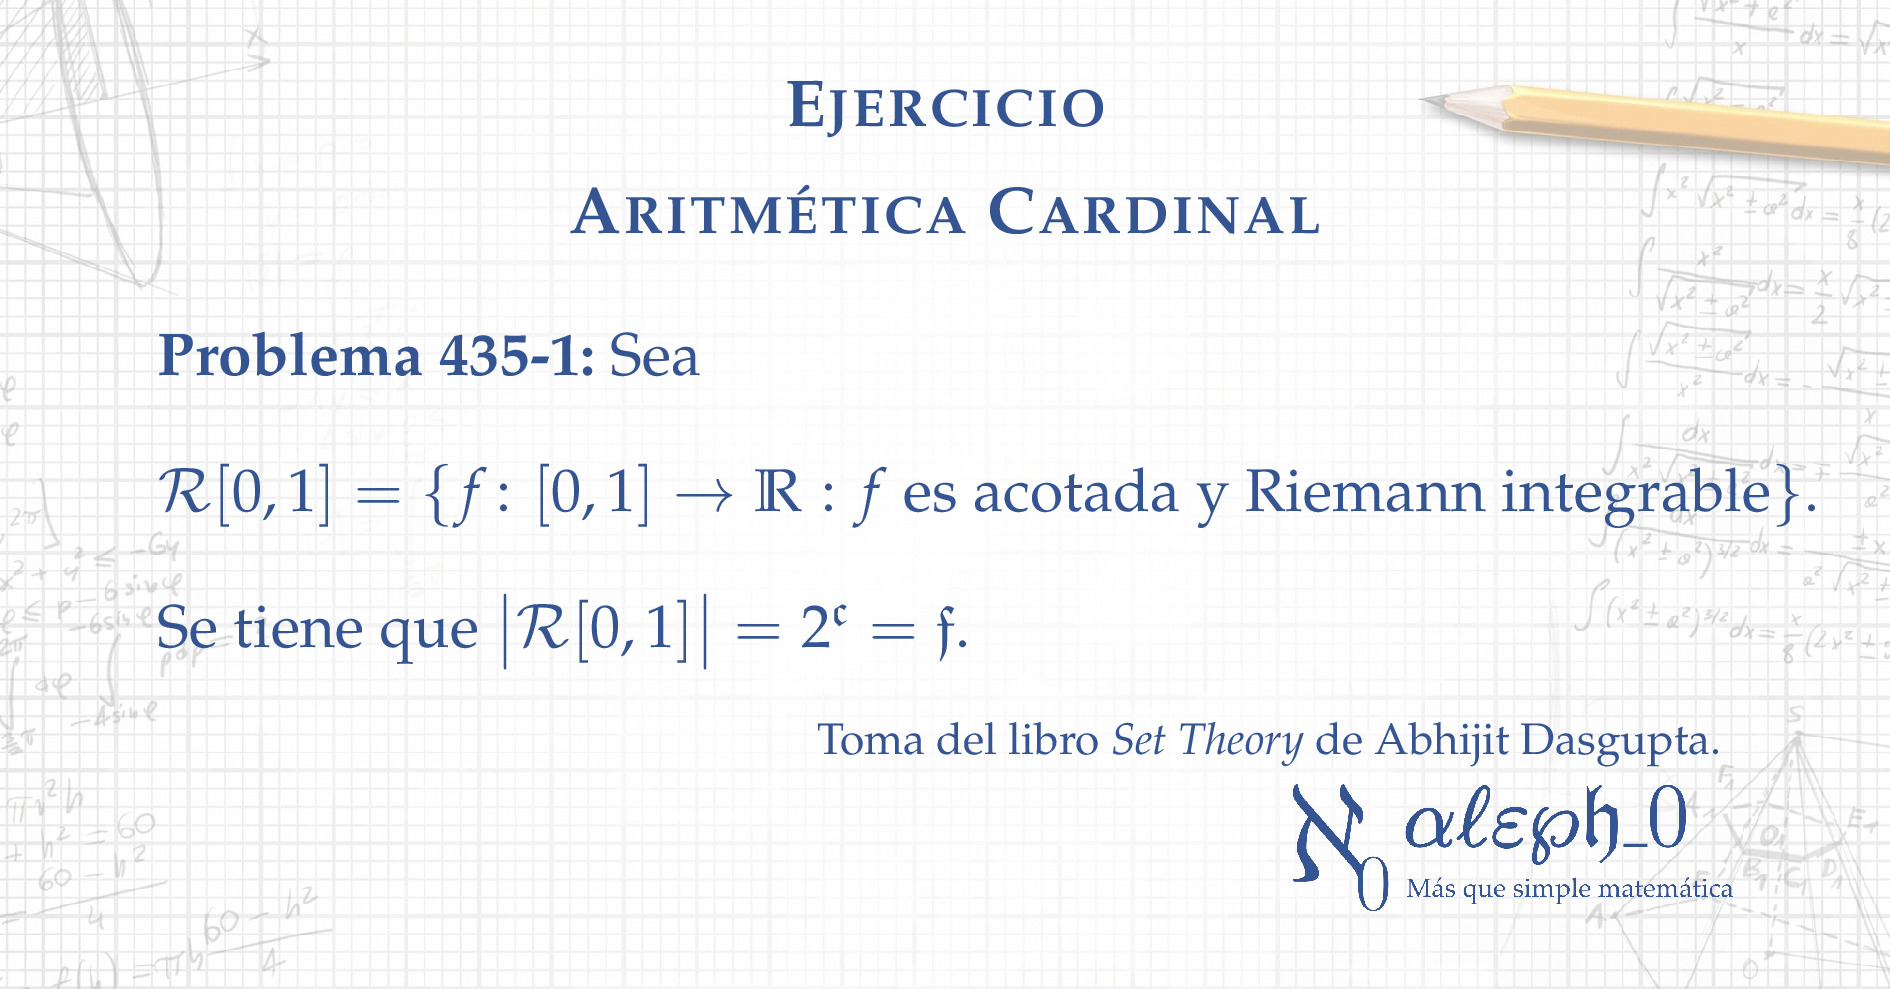
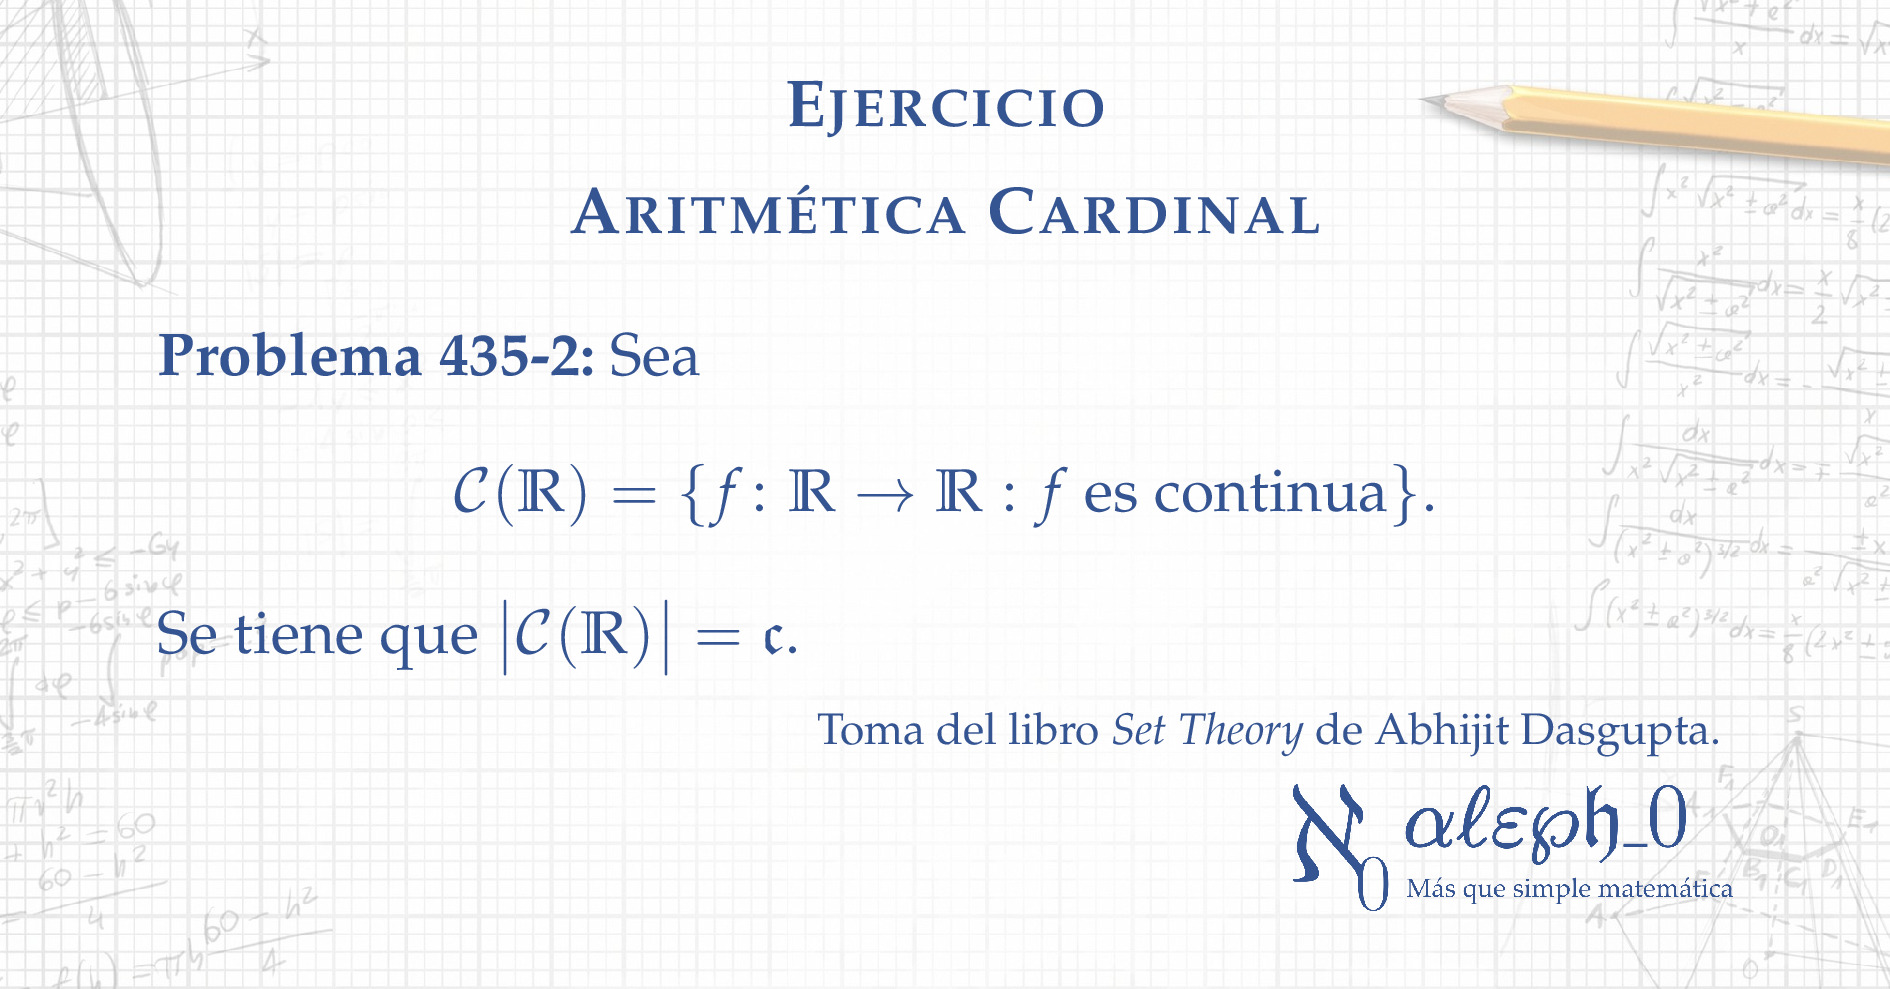
agrega ejercicio 435-2

diff --git a/Cap06/Problema0435-2.tex b/Cap06/Problema0435-2.tex
@@ -7,7 +7,7 @@
 % -- Datos
 \institucion{Proyecto Alephsub0}
 \asignatura{Teoría de conjuntos}
-\tema{Problema 435-1 del libro de Abhijit Dasgupta}
+\tema{Problema 435-2 del libro de Abhijit Dasgupta}
 \autor{Andrés Merino}
 \fecha{Diciembre 2024}
 
@@ -27,7 +27,7 @@
 \encabezado
 
 \noindent
-El siguiente problema corresponde al Problema 435-1 del libro Set theory de Abhijit Dasgupta. Primero, presentemos algunas definiciones:
+El siguiente problema corresponde al Problema 435-2 del libro Set theory de Abhijit Dasgupta. Primero, presentemos algunas definiciones:
 
 % \begin{defi}[Potencia de Conjuntos]
 %     Sea \(A, B\) conjuntos. La potencia \(A^B\) se define como el conjunto de todas las funciones de \(B\) en \(A\), es decir, 
@@ -45,9 +45,9 @@ El siguiente problema corresponde al Problema 435-1 del libro Set theory de Abhi
 
 \begin{proof}
     Para cada $x_0 \in \mathbb{R}$, consideremos la función constante $\func{f_{x_0}}{\mathbb{R}}{\mathbb{R}}$ dada por
-    \[
+    $
         f_{x_0}(x) = x_0.
-    \]
+    $
     Definimos la aplicación
     \[
         \funcion{\Phi}{\mathbb{R}}{\mathcal{C}(\mathbb{R})}{x_0}{\Phi(x_0) = f_{x_0}.}
@@ -63,22 +63,24 @@ El siguiente problema corresponde al Problema 435-1 del libro Set theory de Abhi
     \]
     donde $\Psi(f)$ es la restricción de $f$ a $\mathbb{Q}$. 
 
-    La función $\Psi$ es inyectiva, ya que si $\Psi(f) = \Psi(g)$, entonces $f$ y $g$ coinciden en todos los puntos racionales. Como los racionales son densos en $\mathbb{R}$ y $f, g$ son continuas en $\mathbb{R}$, se sigue que $f = g$ en todo $\mathbb{R}$. 
+    La función $\Psi$ es inyectiva, ya que si $\Psi(f) = \Psi(g)$, entonces $f|_{\mathbb{Q}} = g|_{\mathbb{Q}}$, es decir, $f$ y $g$ coinciden en todos los puntos racionales. Como los racionales son densos en $\mathbb{R}$ y $f, g$ son continuas en $\mathbb{R}$, se sigue que $f = g$ en todo $\mathbb{R}$. 
 
-    Para ver que $\Psi$ es sobreyectiva, tomemos cualquier función $h \in \mathcal{C}(\mathbb{Q})$. Dado que $h$ es continua en $\mathbb{Q}$, se puede extender a una función continua en $\mathbb{R}$ (por el teorema de extensión de continuidades en espacios métricos). Así, existe una función $F \in \mathcal{C}(\mathbb{R})$ tal que $F|_{\mathbb{Q}} = h$, lo que prueba que $\Psi$ es sobreyectiva.
-
-    Como
+    Para ver que $\Psi$ es sobreyectiva, tomemos cualquier función $h \in \mathcal{C}(\mathbb{Q})$. Dado que $h$ es continua en $\mathbb{Q}$, se puede extender a una función continua en $\mathbb{R}$ (por el teorema de extensión de continuidades en espacios métricos). Así, existe una función $F \in \mathcal{C}(\mathbb{R})$ tal que $F|_{\mathbb{Q}} = h$, lo que prueba que $\Psi$ es sobreyectiva. Con esto:
     \[
-        \big|\mathcal{C}(\mathbb{Q})\big| = \big|\mathbb{R}^{\mathbb{Q}}\big| = \big|\mathbb{R}^{\mathbb{N}}\big| = \mathfrak{c}^{\aleph_0} = \mathfrak{c},
-    \]
-    se sigue que
-    \[
-        \big|\mathcal{C}(\mathbb{R})\big| \leq \mathfrak{c}.
+        \big|\mathcal{C}(\mathbb{Q})\big| = \big|\mathcal{C}(\mathbb{R})\big|.
     \]
 
-    Con esto, concluimos que
+    Así
     \[
-        \big|\mathcal{C}(\mathbb{R})\big| = \mathfrak{c}.\qedhere
+        \mathfrak{c}
+        \leq \big|\mathcal{C}(\mathbb{R})\big| 
+        = \big|\mathcal{C}(\mathbb{Q})\big|
+        \leq \big|\mathbb{R}^{\mathbb{Q}}\big| 
+        = \mathfrak{c}^{\aleph_0} = \mathfrak{c},
+    \]
+    por lo tanto,
+    \[
+        \big|\mathcal{C}(\mathbb{R})\big| = \mathfrak{c}.
     \]
 \end{proof}
 
